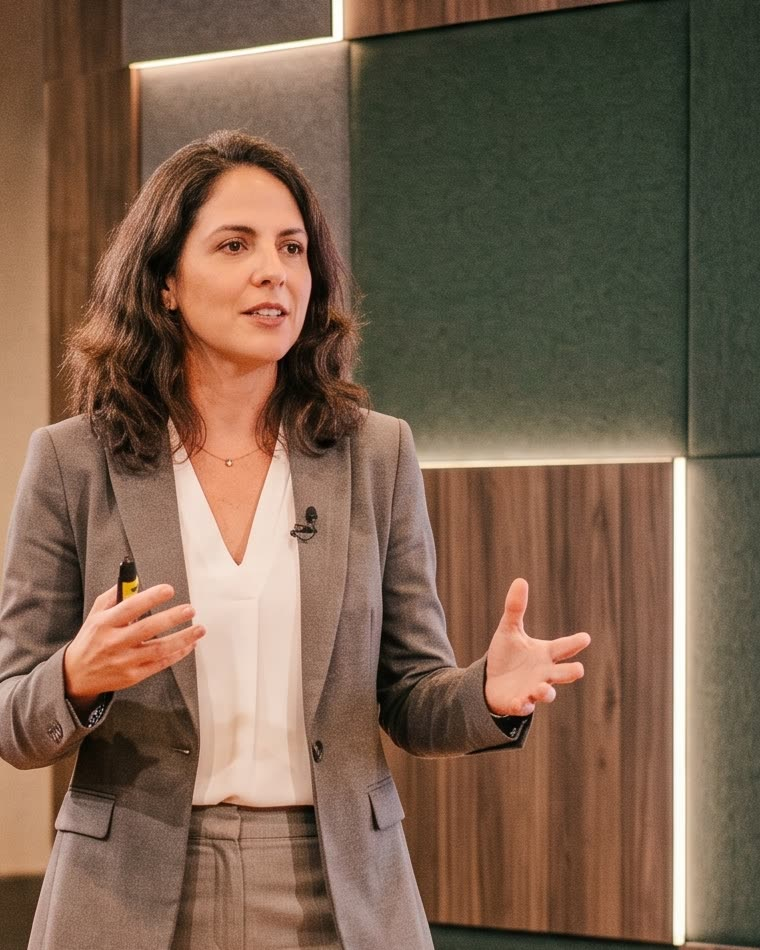
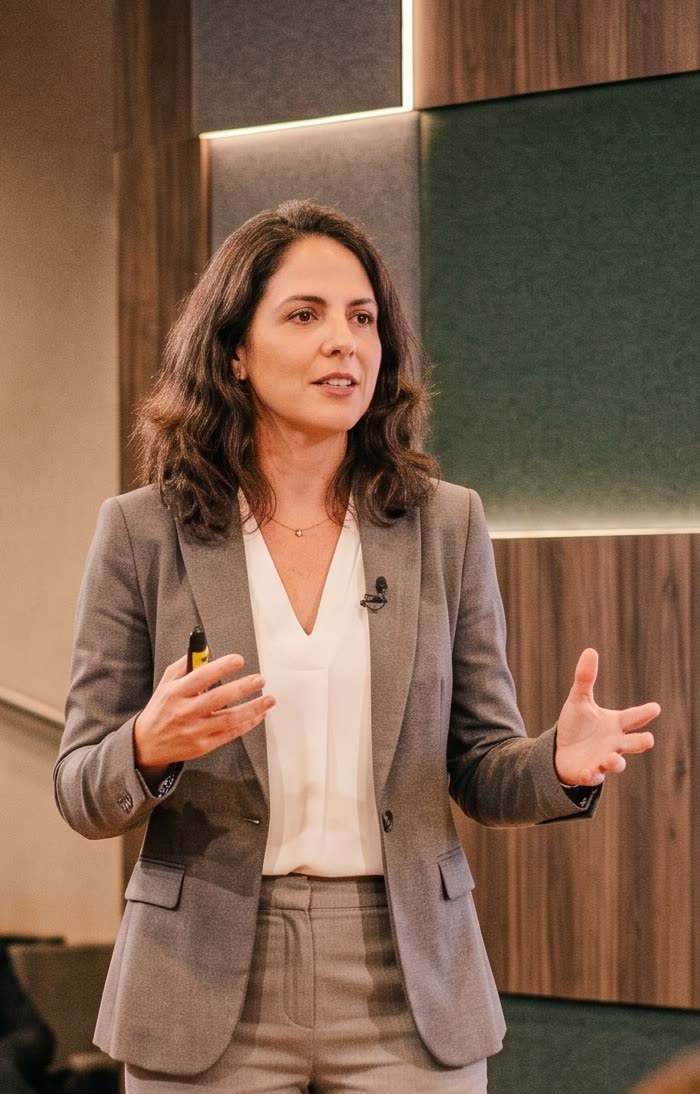
As fotos cobrem a altura inteira da grade ao lado
Terceiro e ultimo estado, os tres pedidos por ela olhando a tela: alinhada por
cima (sobrava embaixo), alinhada por baixo (sobrava em cima) e agora esticada,
comecando na linha de cima do primeiro quadro e terminando na linha de baixo do
ultimo. Medido nos dois blocos: 0px em cima e 0px embaixo.

O `aspect-ratio` sai de cena e a altura passa a mandar; o corte fica por conta do
`object-fit:cover`. So a partir de 901px, porque empilhado a figura nao tem
altura definida e `height:100%` faria a caixa sumir.

A FOTO DA PALESTRA FOI RECORTADA DE NOVO, do original. A caixa agora tem
proporcao 0,62 e o arquivo tinha 0,80: sobrariam 52px cortados de cada lado, e
ali estao as maos dela, abertas. O recorte novo sai mais alto (700x1094, ou
0,64), quase a proporcao da caixa, entao quase nada se perde. Conferi olhando o
recorte e conferi a borda de baixo em separado: entra so a poltrona desfocada,
nenhum rosto de plateia.

O nome do arquivo continua o mesmo e o conteudo mudou, entao o endereco leva
`?v=2`. Sem isso o navegador de quem ja visitou serviria a foto antiga do cache.

DOIS DEFEITOS ENCONTRADOS MEDINDO, NENHUM DELES VISIVEL NO PEDIDO:

- a 950px de janela as fotos desciam para uma linha so delas, e ali, sem altura
  de grade para casar, a caixa voltava a proporcao do arquivo: a do caderno
  virava uma tira deitada de 372x266. Era a base do flex de novo (480 + 52 + 372
  = 904 numa faixa de 887). Base 400 resolve.
[…]

diff --git a/acesso/index.html b/acesso/index.html
@@ -126,20 +126,31 @@ header .btn{padding:8px 12px;font-size:.62rem;letter-spacing:.1em}
    blocos iguais. A grade que vem ao lado deixa de ser de tres colunas e
    vira coluna unica, com os fios passando de vertical para horizontal. */
 .foto-par{display:flex;flex-wrap:wrap;align-items:flex-start;gap:52px;margin-top:48px}
-.foto-par .passos,.foto-par .beneficios{flex:1 1 480px;min-width:300px;margin-top:0;grid-template-columns:1fr}
+/* Base 400, e nao 480: o flex decide a quebra de linha pela BASE, nao pela
+   largura ja encolhida. Com 480 a conta dava 904 numa faixa de 887 (janela de
+   950) e a foto descia para uma linha so dela - e ali, sem altura de grade
+   para casar, a caixa voltava a proporcao do arquivo e a do caderno virava uma
+   tira deitada de 372x266. Com 400 a soma e 824, que cabe ate na faixa mais
+   estreita desta banda. */
+.foto-par .passos,.foto-par .beneficios{flex:1 1 400px;min-width:300px;margin-top:0;grid-template-columns:1fr}
 .foto-par .passo{border-right:0;border-bottom:1px solid var(--line-dark)}
 .foto-par .passo:last-child{border-bottom:0}
 .foto-par .beneficio{border-right:0;border-bottom:1px solid var(--line)}
 .foto-par .beneficio:last-child{border-bottom:0}
 .foto-par--espelho .foto-vert{order:-1}
-/* A foto pendura pela BASE, e nao pelo topo: a grade ao lado e mais alta que
-   ela, e alinhando por cima sobrava um vao embaixo, do lado do ultimo quadro.
-   Pedido dela em 18/08, com o cuidado que ela mesma nomeou: o topo NAO deve
-   casar com o topo do primeiro quadro.
-   Vale nos DOIS blocos. Eu tinha feito so no dos passos, achando que no
-   espelhado o buraco subiria para a borda de entrada da leitura; ela olhou
-   os beneficios e pediu igual. */
-.foto-par .foto-vert{align-self:flex-end}
+/* A foto cobre a ALTURA INTEIRA da grade ao lado: comeca na linha de cima do
+   primeiro quadro e termina na linha de baixo do ultimo.
+   Antes ela pendurava pela base, e ficava um vao no alto. Foram tres
+   estados ate aqui, os tres pedidos por ela olhando a tela: alinhada por
+   cima (sobrava embaixo), alinhada por baixo (sobrava em cima), e agora
+   esticada, sem sobra nenhuma.
+   O `aspect-ratio` sai de cena aqui, e a altura passa a mandar; o corte fica
+   por conta do `object-fit:cover`. So a partir de 901px, porque empilhado a
+   figura nao tem altura definida e `height:100%` faria a caixa sumir. */
+@media (min-width:901px){
+  .foto-par .foto-vert{align-self:stretch}
+  .foto-par .foto-vert .fbox{height:100%;aspect-ratio:auto}
+}
 .foto-vert{flex:0 0 372px;min-width:0;position:relative;margin:0}
 .foto-vert .fbox{aspect-ratio:4/5;overflow:hidden;border:1px solid var(--line-dark);background:var(--ink)}
 .foto-vert img,.foto-banda img{width:100%;height:100%;object-fit:cover;display:block;filter:saturate(.88)}
@@ -160,6 +171,12 @@ header .btn{padding:8px 12px;font-size:.62rem;letter-spacing:.1em}
 .foto-banda figcaption{position:absolute;left:0;bottom:0;margin:0;background:var(--ink);color:#fff;font-size:.6rem;letter-spacing:.18em;text-transform:uppercase;font-weight:700;padding:9px 13px}
 @media (max-width:900px){
   .foto-par{gap:36px}
+  /* Empilhado o cartao DESCE da foto e vira legenda. Sobreposto ele nao cabe:
+     a caixa fica com 327px, o corte come a folga acima da cabeca dela e,
+     desenhando o retangulo sobre o recorte real, o cartao ficava em cima do
+     rosto. Numa tela estreita a foto ja e pequena; tapar um pedaco dela para
+     manter um efeito de computador e trocar o que importa pelo enfeite. */
+  .fcard{position:static;max-width:none;margin-top:14px;border-left:0;border-right:0;border-bottom:0;padding:14px 0 0}
   /* Empilhado, a foto do bloco espelhado continua vindo ANTES da grade, que
      e a mesma ordem que ela tem no computador. Eu tinha escrito order:0 aqui
      achando que mandaria a foto para baixo; medido, nao manda - o seletor do
@@ -629,7 +646,7 @@ h1,h2{line-height:1.05}
            de quem abrisse o endereco da imagem. O corte esta na imagem. -->
       <figure class="foto-vert">
         <div class="fbox">
-          <img src="/imagens/foto-palestra.jpg" width="760" height="950" loading="lazy" decoding="async"
+          <img src="/imagens/foto-palestra.jpg?v=2" width="760" height="950" loading="lazy" decoding="async"
                alt="Apresentação em um palco, diante do painel de madeira do auditório">
         </div>
         <figcaption class="fcard">
